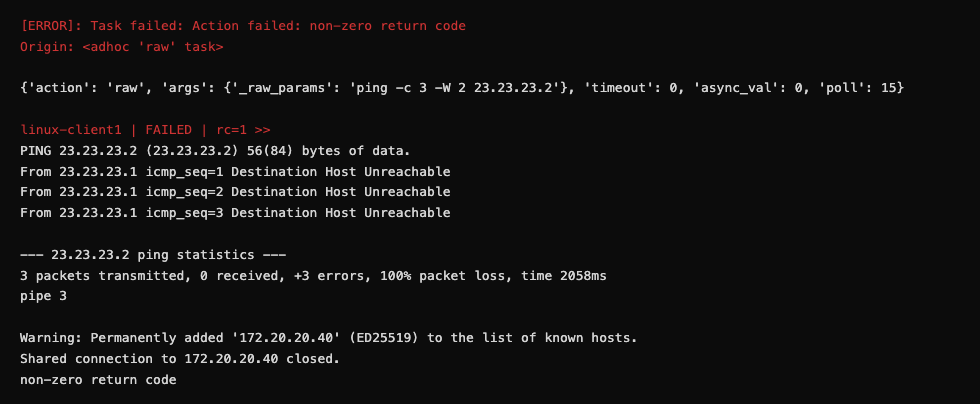
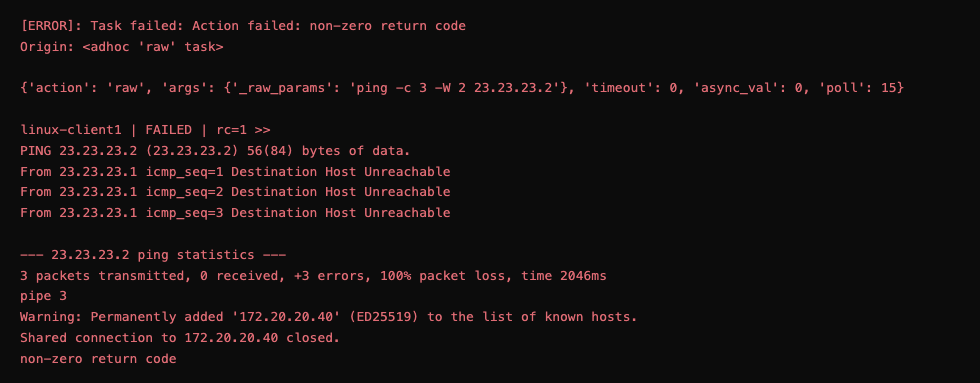
Fix adhoc failed output image to all-red (#e06c75) per ansible_image.md standard

diff --git a/images/ansible_image.md b/images/ansible_image.md
@@ -37,7 +37,7 @@ The HTML template used to generate these images is stored at `/tmp/ansible-outpu
 |---|---|---|
 | `changed` | Golden yellow | `#e5c000` |
 | `ok` | Bright green | `#00cc44` |
-| `failed` | Red (not yet used) | `#e06c75` |
+| `failed` | Red | `#e06c75` — when entire output is failure/stderr, use this color for ALL lines |
 | `skipping` | Cyan | `#00aaaa` |
 | Headers / plain text | Bright white | `#e8e8e8` |
 | Informational text | Light grey | `#cccccc` |
